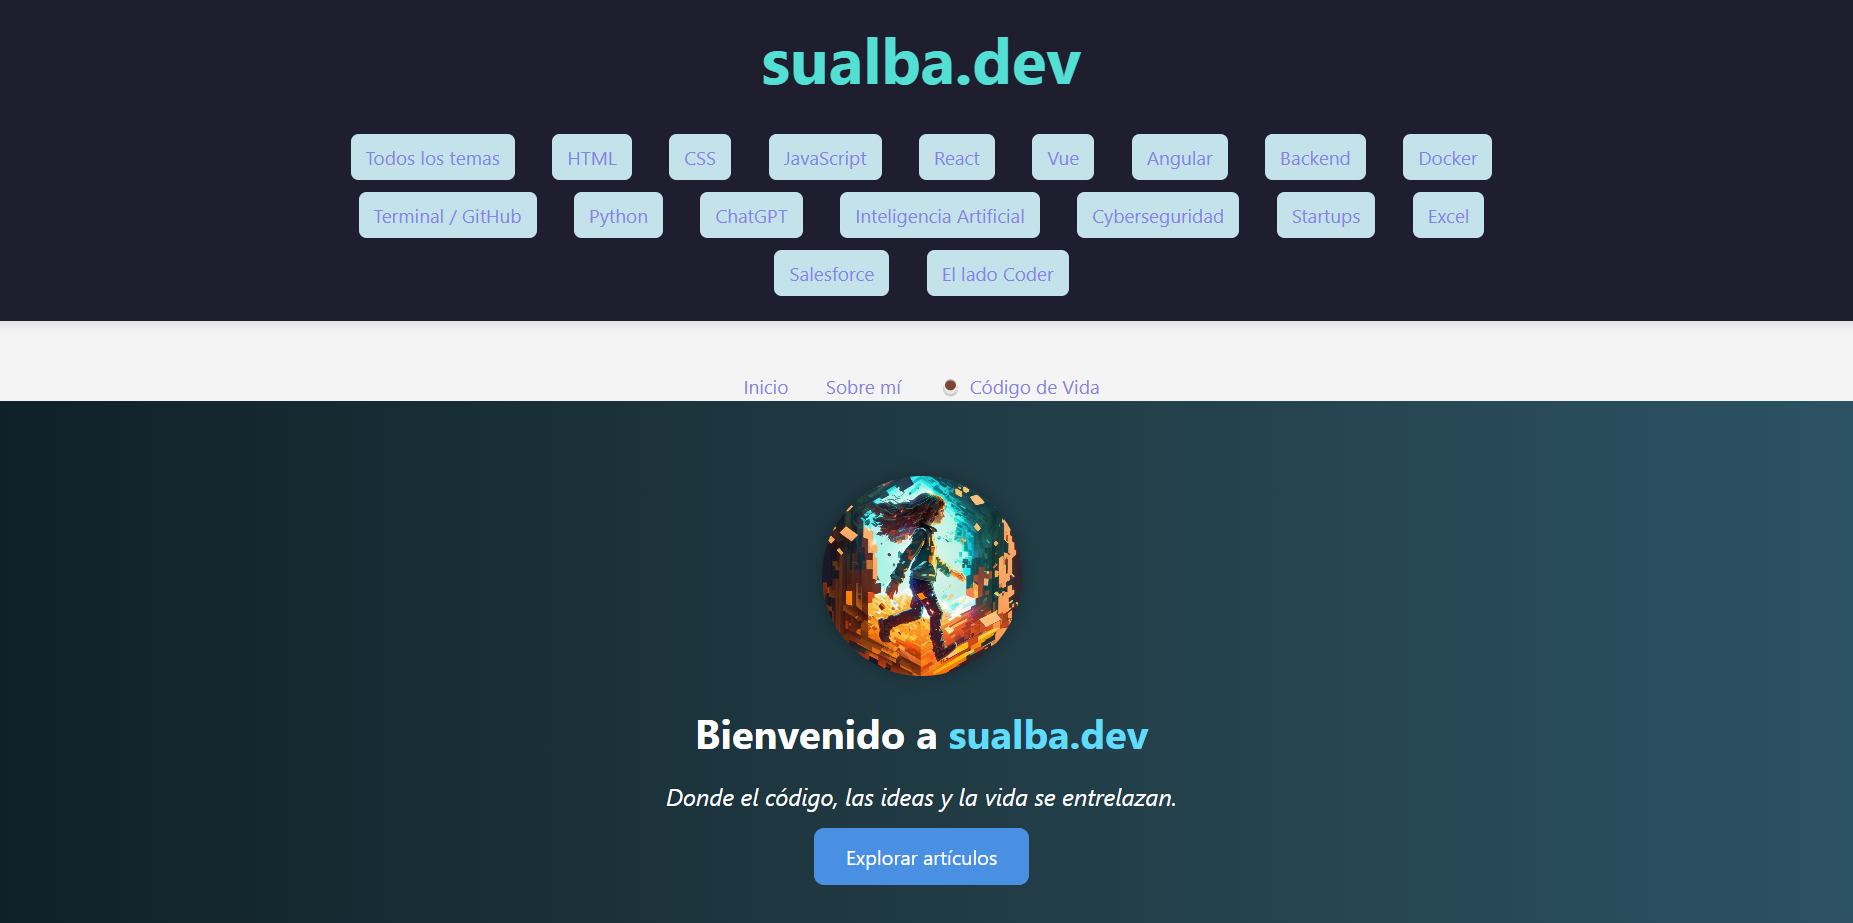
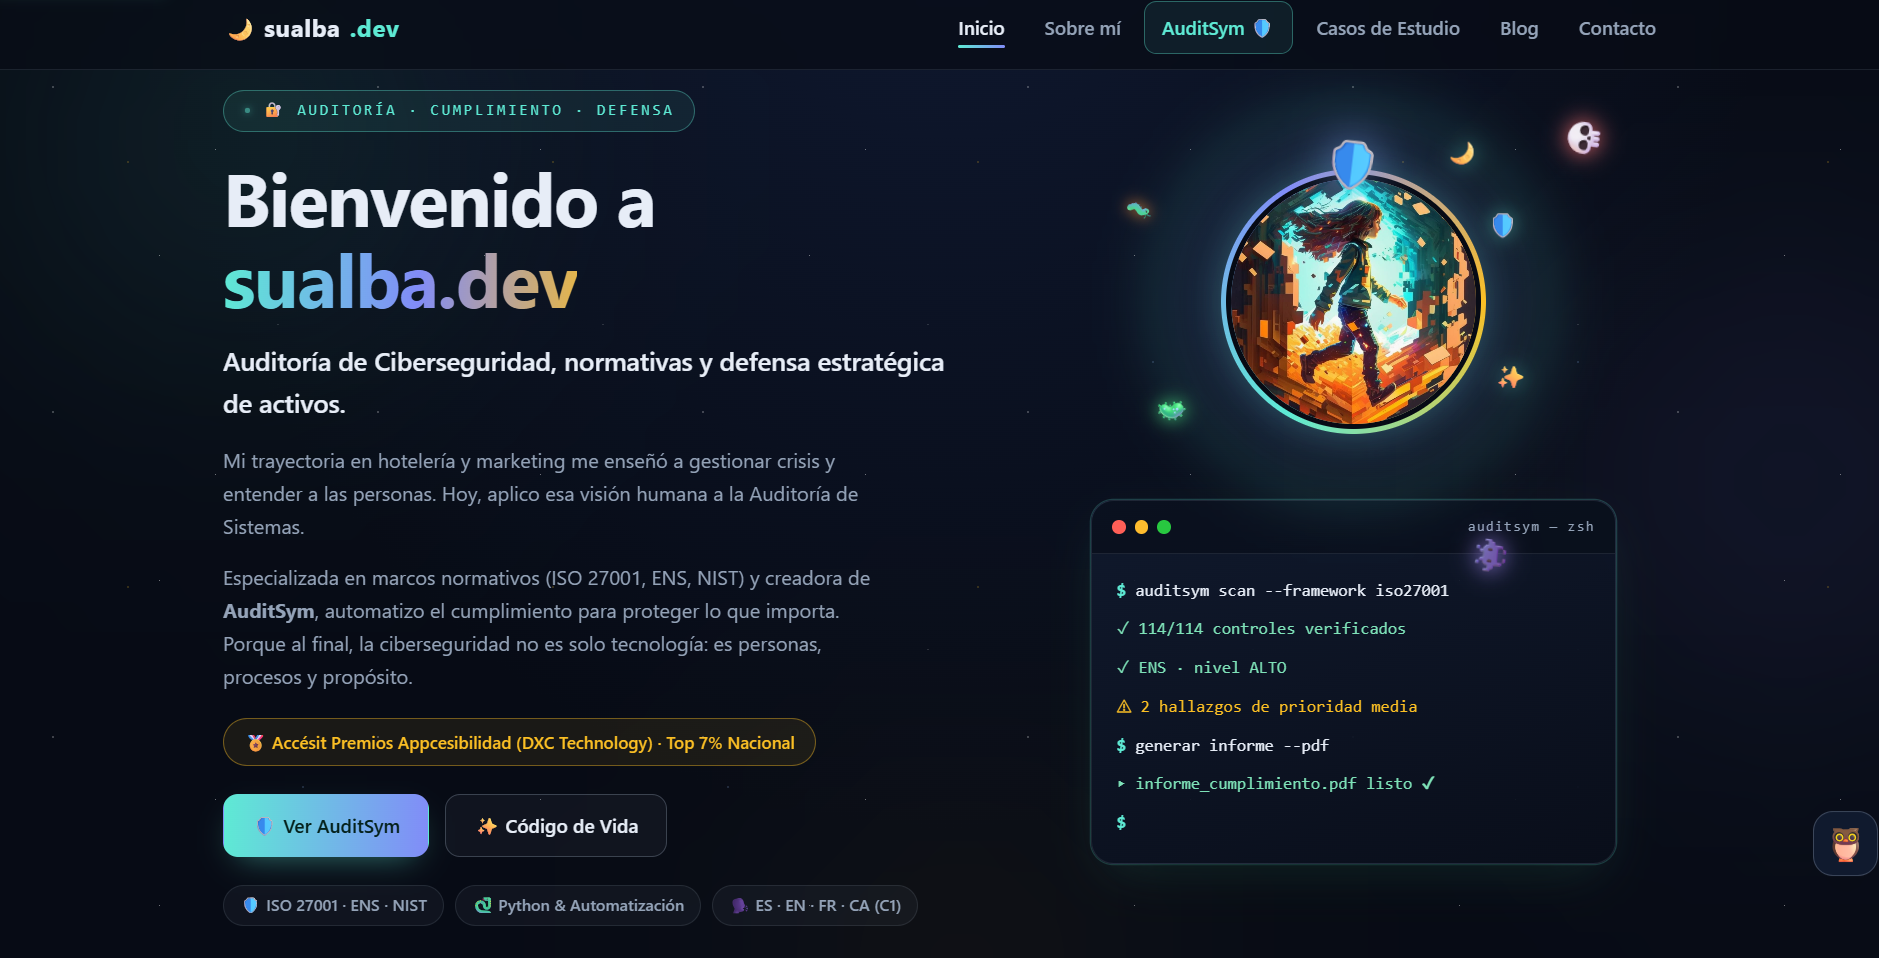
actualizo sobre mi

diff --git a/blog/templates/blog/sobre_mi.html b/blog/templates/blog/sobre_mi.html
@@ -1,4 +1,4 @@
-{% extends 'blog/base.html' %}
+<{% extends 'blog/base.html' %}
 {% load static %}
 {% block title %}Sobre mí | sualba.dev{% endblock %}
 
@@ -14,12 +14,12 @@
 
     <div>
       <h1 class="page-title">¡Hola! Soy <span class="grad-text">Susana Alba</span>🛡</h1>
-      <p class="page-sub">No soy solo una desarrolladora; soy una Especialista en Auditoría de Ciberseguridad y Cumplimiento Normativo.</p>
+      <p class="page-sub">Soy Susana Alba, profesional de Ciberseguridad y desarrolladora especializada en Auditoría, Riesgos y Cumplimiento Normativo.</p>
+      <p> Auditoría · Riesgos · Cumplimiento · Desarrollo · Automatización </p>
       <p class="about-lead">
-        Mi objetivo es ayudar a empresas a proteger sus activos de información y a conseguir (o mantener) sus
-        certificaciones en ISO 27001, ENS y NIST. Gracias a mi background técnico, no solo audito procesos: soy capaz
-        de entender la arquitectura del código, evaluar configuraciones técnicas y, además, desarrollar mis propias
-        herramientas de automatización (como <a href="https://auditsym.com" target="_blank" rel="noopener">AuditSym</a>).
+        Mi trabajo combina dos perspectivas que normalmente aparecen separadas: <strong>entender la seguridad desde el punto de vista técnico y convertir ese conocimiento en soluciones que puedan utilizarse en el mundo real</strong>. 
+      <p>Trabajo con marcos como ISO 27001, ISO 27005, NIST y ENS, y desarrollo herramientas propias para automatizar y mejorar procesos de auditoría y gestión del riesgo.</p>
+      <p>De ahí nace <a href="https://auditsym.com" target="_blank" rel="noopener">AuditSym</a>, una aplicación GRC que estoy diseñando y desarrollando para llevar la gestión de auditorías, hallazgos, riesgos, cumplimiento y remediación a una experiencia más integrada y práctica.
       </p>
       <p class="about-lead">
         Mi visión de la ciberseguridad nace de la experiencia real. En 2024, mi proyecto de accesibilidad e inclusión
